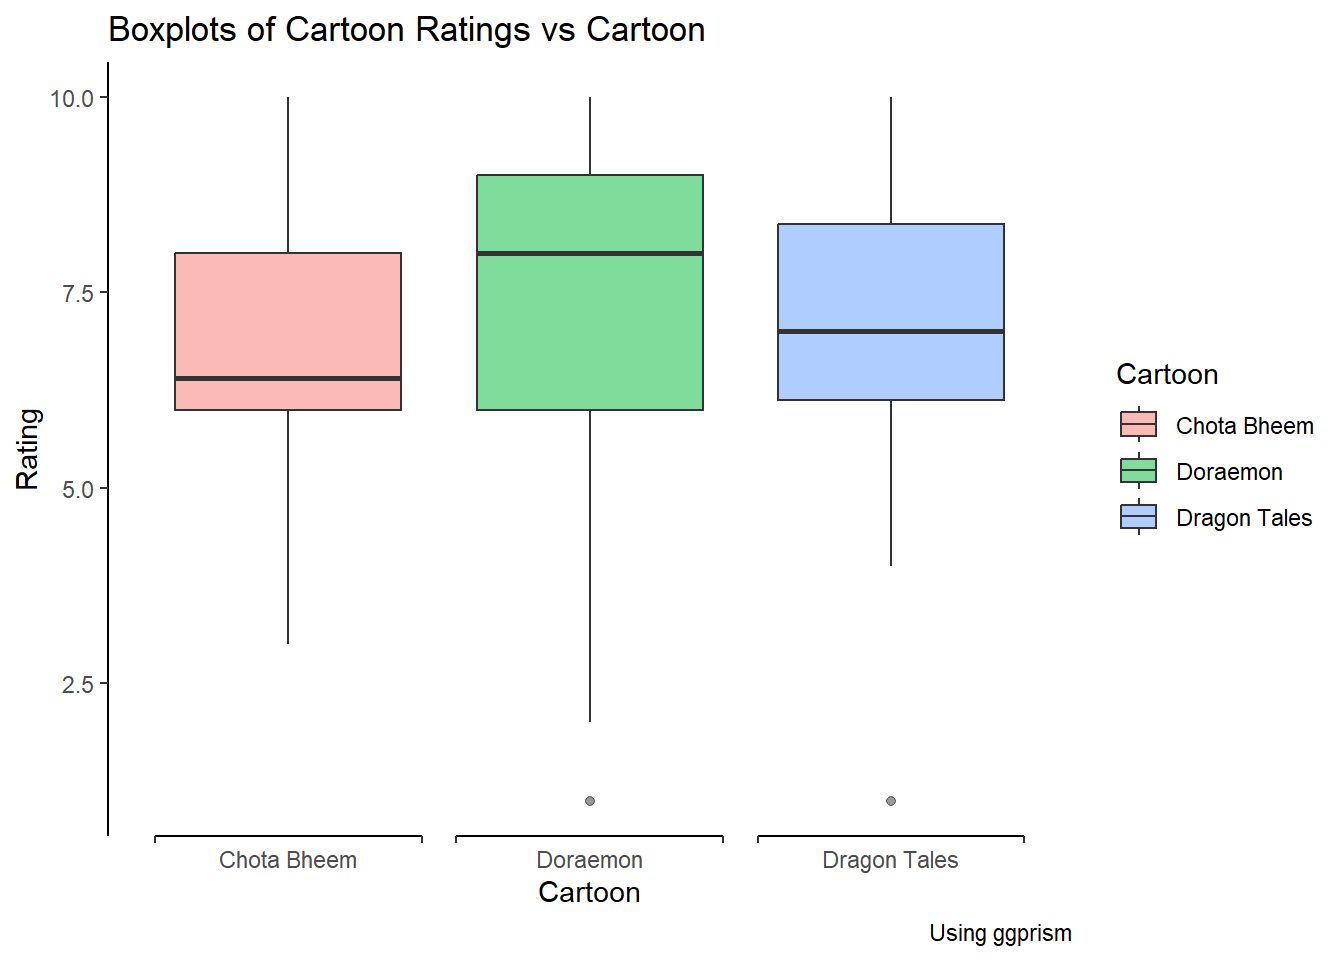
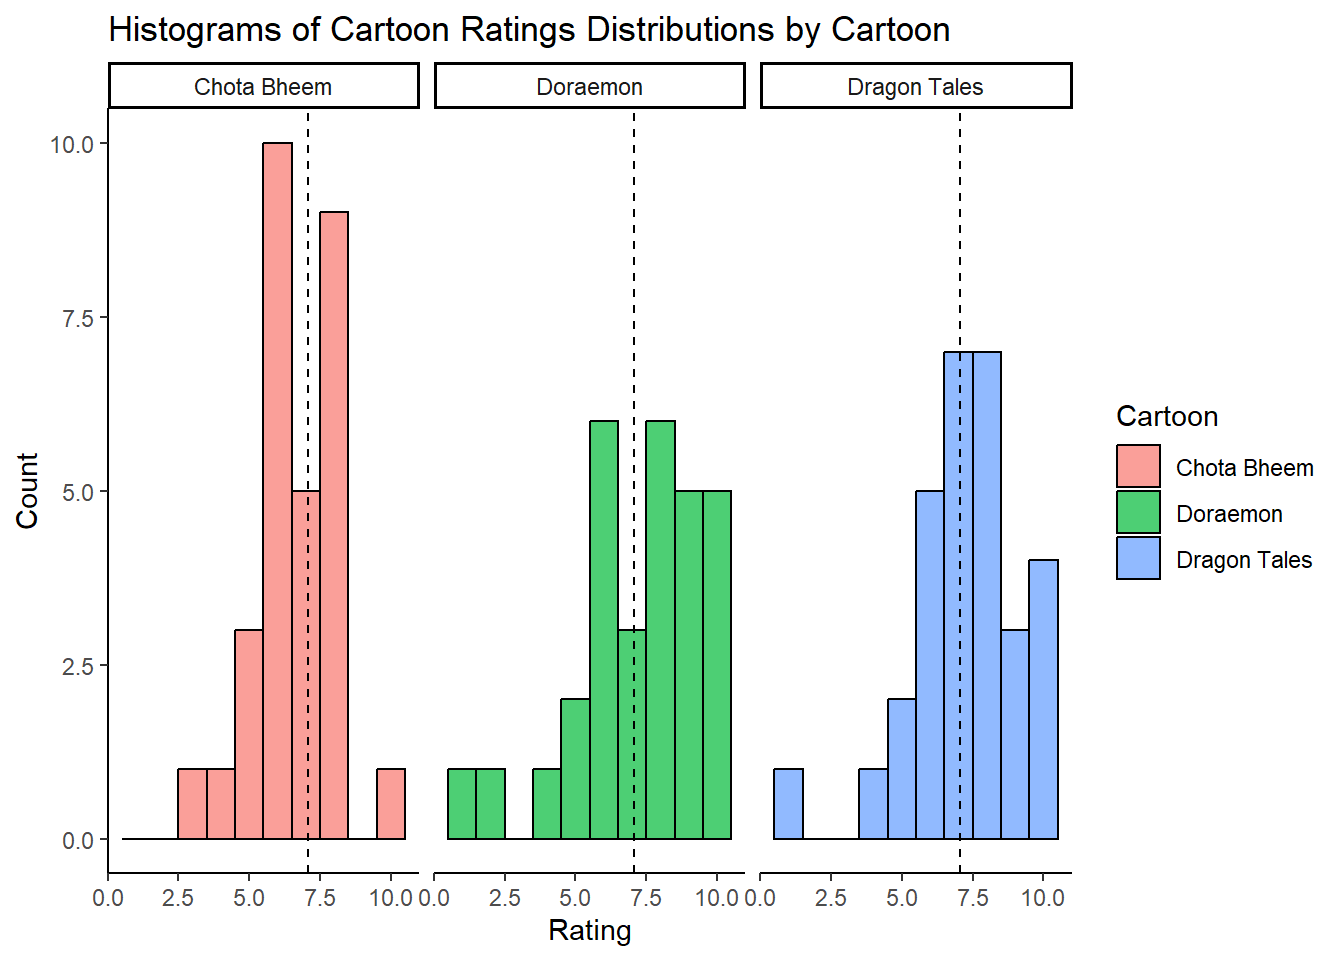
2nd commit

diff --git a/_site/posts/A3-Cartoons-Dataset/index.html b/_site/posts/A3-Cartoons-Dataset/index.html
@@ -178,6 +178,9 @@ pre > code.sourceCode > span > a:first-child::before { text-decoration: underlin
 
 
 
+<section id="introduction" class="level2">
+<h2 class="anchored" data-anchor-id="introduction">Introduction</h2>
+<p>This dataset shows ratings given by MAHE students to different cartoons. Each entry includes a Participant ID, Gender, Cartoon name, and Rating. The aim is to see if there are significant differences in how people rate each cartoon. By using ANOVA, we can find out if some cartoon is consistently rated higher or lower than the other.</p>
 <div class="cell">
 <div class="sourceCode cell-code" id="cb1"><pre class="sourceCode r code-with-copy"><code class="sourceCode r"><span id="cb1-1"><a href="#cb1-1" aria-hidden="true" tabindex="-1"></a><span class="fu">library</span>(tidyverse) <span class="co"># Tidy data processing</span></span></code><button title="Copy to Clipboard" class="code-copy-button"><i class="bi"></i></button></pre></div>
 <div class="cell-output cell-output-stderr">
@@ -275,7 +278,8 @@ The following object is masked from 'package:scales':
 </div>
 </div>
 <div class="cell">
-<div class="sourceCode cell-code" id="cb11"><pre class="sourceCode r code-with-copy"><code class="sourceCode r"><span id="cb11-1"><a href="#cb11-1" aria-hidden="true" tabindex="-1"></a>cartoon <span class="ot">&lt;-</span> <span class="fu">read_csv</span>(<span class="st">"../../Data/Cartoon.csv"</span>)</span></code><button title="Copy to Clipboard" class="code-copy-button"><i class="bi"></i></button></pre></div>
+<div class="sourceCode cell-code" id="cb11"><pre class="sourceCode r code-with-copy"><code class="sourceCode r"><span id="cb11-1"><a href="#cb11-1" aria-hidden="true" tabindex="-1"></a><span class="co"># Reading in the data</span></span>
+<span id="cb11-2"><a href="#cb11-2" aria-hidden="true" tabindex="-1"></a>cartoon <span class="ot">&lt;-</span> <span class="fu">read_csv</span>(<span class="st">"../../Data/Cartoon.csv"</span>)</span></code><button title="Copy to Clipboard" class="code-copy-button"><i class="bi"></i></button></pre></div>
 <div class="cell-output cell-output-stderr">
 <pre><code>Rows: 90 Columns: 4
 ── Column specification ────────────────────────────────────────────────────────
@@ -297,12 +301,14 @@ $ Rating           &lt;dbl&gt; 8.5, 6.0, 8.0, 7.0, 8.0, 10.0, 5.0, 7.8, 8.5, 5.0
 </div>
 </div>
 <div class="cell">
-<div class="sourceCode cell-code" id="cb15"><pre class="sourceCode r code-with-copy"><code class="sourceCode r"><span id="cb15-1"><a href="#cb15-1" aria-hidden="true" tabindex="-1"></a>cartoon_modified <span class="ot">&lt;-</span> cartoon <span class="sc">%&gt;%</span></span>
-<span id="cb15-2"><a href="#cb15-2" aria-hidden="true" tabindex="-1"></a>  dplyr<span class="sc">::</span><span class="fu">mutate</span>(</span>
-<span id="cb15-3"><a href="#cb15-3" aria-hidden="true" tabindex="-1"></a>  <span class="at">Gender =</span> <span class="fu">as_factor</span>(Gender),</span>
-<span id="cb15-4"><a href="#cb15-4" aria-hidden="true" tabindex="-1"></a>  <span class="at">Cartoon =</span> <span class="fu">as_factor</span>(Cartoon)</span>
-<span id="cb15-5"><a href="#cb15-5" aria-hidden="true" tabindex="-1"></a>  )</span>
-<span id="cb15-6"><a href="#cb15-6" aria-hidden="true" tabindex="-1"></a><span class="fu">glimpse</span>(cartoon_modified)</span></code><button title="Copy to Clipboard" class="code-copy-button"><i class="bi"></i></button></pre></div>
+<div class="sourceCode cell-code" id="cb15"><pre class="sourceCode r code-with-copy"><code class="sourceCode r"><span id="cb15-1"><a href="#cb15-1" aria-hidden="true" tabindex="-1"></a><span class="co"># Mutating by converting Gender and Cartoon into factors</span></span>
+<span id="cb15-2"><a href="#cb15-2" aria-hidden="true" tabindex="-1"></a></span>
+<span id="cb15-3"><a href="#cb15-3" aria-hidden="true" tabindex="-1"></a>cartoon_modified <span class="ot">&lt;-</span> cartoon <span class="sc">%&gt;%</span></span>
+<span id="cb15-4"><a href="#cb15-4" aria-hidden="true" tabindex="-1"></a>  dplyr<span class="sc">::</span><span class="fu">mutate</span>(</span>
+<span id="cb15-5"><a href="#cb15-5" aria-hidden="true" tabindex="-1"></a>  <span class="at">Gender =</span> <span class="fu">as_factor</span>(Gender),</span>
+<span id="cb15-6"><a href="#cb15-6" aria-hidden="true" tabindex="-1"></a>  <span class="at">Cartoon =</span> <span class="fu">as_factor</span>(Cartoon)</span>
+<span id="cb15-7"><a href="#cb15-7" aria-hidden="true" tabindex="-1"></a>  )</span>
+<span id="cb15-8"><a href="#cb15-8" aria-hidden="true" tabindex="-1"></a><span class="fu">glimpse</span>(cartoon_modified)</span></code><button title="Copy to Clipboard" class="code-copy-button"><i class="bi"></i></button></pre></div>
 <div class="cell-output cell-output-stdout">
 <pre><code>Rows: 90
 Columns: 4
@@ -344,27 +350,18 @@ $ Rating           &lt;dbl&gt; 8.5, 6.0, 8.0, 7.0, 8.0, 10.0, 5.0, 7.8, 8.5, 5.0
 <div class="cell">
 <div class="sourceCode cell-code" id="cb19"><pre class="sourceCode r code-with-copy"><code class="sourceCode r"><span id="cb19-1"><a href="#cb19-1" aria-hidden="true" tabindex="-1"></a><span class="co"># Set graph theme</span></span>
 <span id="cb19-2"><a href="#cb19-2" aria-hidden="true" tabindex="-1"></a><span class="fu">theme_set</span>(<span class="at">new =</span> <span class="fu">theme_classic</span>())</span>
-<span id="cb19-3"><a href="#cb19-3" aria-hidden="true" tabindex="-1"></a><span class="do">##</span></span>
-<span id="cb19-4"><a href="#cb19-4" aria-hidden="true" tabindex="-1"></a><span class="fu">gf_boxplot</span>(</span>
-<span id="cb19-5"><a href="#cb19-5" aria-hidden="true" tabindex="-1"></a>  <span class="at">data =</span> cartoon_modified,</span>
-<span id="cb19-6"><a href="#cb19-6" aria-hidden="true" tabindex="-1"></a>  Rating <span class="sc">~</span> Cartoon,</span>
-<span id="cb19-7"><a href="#cb19-7" aria-hidden="true" tabindex="-1"></a>  <span class="at">fill =</span> <span class="sc">~</span> Cartoon,</span>
-<span id="cb19-8"><a href="#cb19-8" aria-hidden="true" tabindex="-1"></a>  <span class="at">alpha =</span> <span class="fl">0.5</span></span>
-<span id="cb19-9"><a href="#cb19-9" aria-hidden="true" tabindex="-1"></a>) <span class="sc">%&gt;%</span></span>
-<span id="cb19-10"><a href="#cb19-10" aria-hidden="true" tabindex="-1"></a>   <span class="fu">gf_vline</span>(<span class="at">xintercept =</span> <span class="fu">mean</span>(cartoon_modified<span class="sc">$</span>Rating)) <span class="sc">%&gt;%</span></span>
+<span id="cb19-3"><a href="#cb19-3" aria-hidden="true" tabindex="-1"></a></span>
+<span id="cb19-4"><a href="#cb19-4" aria-hidden="true" tabindex="-1"></a><span class="co"># Creating faceted histograms with black outline, and overall mean line</span></span>
+<span id="cb19-5"><a href="#cb19-5" aria-hidden="true" tabindex="-1"></a><span class="fu">gf_histogram</span>(<span class="sc">~</span>Rating,</span>
+<span id="cb19-6"><a href="#cb19-6" aria-hidden="true" tabindex="-1"></a>  <span class="at">data =</span> cartoon_modified, <span class="at">alpha =</span> <span class="fl">0.7</span>, <span class="at">bins =</span> <span class="dv">10</span>,</span>
+<span id="cb19-7"><a href="#cb19-7" aria-hidden="true" tabindex="-1"></a>  <span class="at">fill =</span> <span class="sc">~</span>Cartoon, <span class="at">color =</span> <span class="st">"black"</span>  <span class="co"># Black outline</span></span>
+<span id="cb19-8"><a href="#cb19-8" aria-hidden="true" tabindex="-1"></a>) <span class="sc">%&gt;%</span></span>
+<span id="cb19-9"><a href="#cb19-9" aria-hidden="true" tabindex="-1"></a>  <span class="fu">gf_facet_wrap</span>(<span class="sc">~</span>Cartoon) <span class="sc">%&gt;%</span>  <span class="co"># Facet by cartoon</span></span>
+<span id="cb19-10"><a href="#cb19-10" aria-hidden="true" tabindex="-1"></a>  <span class="fu">gf_vline</span>(<span class="at">xintercept =</span> <span class="fu">mean</span>(<span class="sc">~</span>Rating, <span class="at">data =</span> cartoon_modified), <span class="at">linetype =</span> <span class="st">"dashed"</span>) <span class="sc">%&gt;%</span></span>
 <span id="cb19-11"><a href="#cb19-11" aria-hidden="true" tabindex="-1"></a>  <span class="fu">gf_labs</span>(</span>
-<span id="cb19-12"><a href="#cb19-12" aria-hidden="true" tabindex="-1"></a>    <span class="at">title =</span> <span class="st">"Boxplots of Cartoon Ratings vs Cartoon"</span>,</span>
-<span id="cb19-13"><a href="#cb19-13" aria-hidden="true" tabindex="-1"></a>    <span class="at">x =</span> <span class="st">"Cartoon"</span>, <span class="at">y =</span> <span class="st">"Rating"</span>,</span>
-<span id="cb19-14"><a href="#cb19-14" aria-hidden="true" tabindex="-1"></a>    <span class="at">caption =</span> <span class="st">"Using ggprism"</span></span>
-<span id="cb19-15"><a href="#cb19-15" aria-hidden="true" tabindex="-1"></a>  ) <span class="sc">%&gt;%</span></span>
-<span id="cb19-16"><a href="#cb19-16" aria-hidden="true" tabindex="-1"></a>  <span class="fu">gf_refine</span>(</span>
-<span id="cb19-17"><a href="#cb19-17" aria-hidden="true" tabindex="-1"></a>    <span class="fu">scale_x_discrete</span>(<span class="at">guide =</span> <span class="st">"prism_bracket"</span>),</span>
-<span id="cb19-18"><a href="#cb19-18" aria-hidden="true" tabindex="-1"></a>    <span class="fu">guides</span>(<span class="at">fill =</span> <span class="fu">guide_legend</span>(<span class="at">title =</span> <span class="st">"Cartoon"</span>))</span>
-<span id="cb19-19"><a href="#cb19-19" aria-hidden="true" tabindex="-1"></a>  )</span></code><button title="Copy to Clipboard" class="code-copy-button"><i class="bi"></i></button></pre></div>
-<div class="cell-output cell-output-stderr">
-<pre><code>Warning: The S3 guide system was deprecated in ggplot2 3.5.0.
-ℹ It has been replaced by a ggproto system that can be extended.</code></pre>
-</div>
+<span id="cb19-12"><a href="#cb19-12" aria-hidden="true" tabindex="-1"></a>    <span class="at">title =</span> <span class="st">"Histograms of Cartoon Ratings Distributions by Cartoon"</span>,</span>
+<span id="cb19-13"><a href="#cb19-13" aria-hidden="true" tabindex="-1"></a>    <span class="at">x =</span> <span class="st">"Rating"</span>, <span class="at">y =</span> <span class="st">"Count"</span></span>
+<span id="cb19-14"><a href="#cb19-14" aria-hidden="true" tabindex="-1"></a>  ) </span></code><button title="Copy to Clipboard" class="code-copy-button"><i class="bi"></i></button></pre></div>
 <div class="cell-output-display">
 <div>
 <figure class="figure">
@@ -373,9 +370,55 @@ $ Rating           &lt;dbl&gt; 8.5, 6.0, 8.0, 7.0, 8.0, 10.0, 5.0, 7.8, 8.5, 5.0
 </div>
 </div>
 </div>
-<p>https://av-quarto.netlify.app/content/courses/analytics/inference/modules/130-threemeansormore/</p>
+<div class="callout callout-style-default callout-note callout-titled">
+<div class="callout-header d-flex align-content-center">
+<div class="callout-icon-container">
+<i class="callout-icon"></i>
+</div>
+<div class="callout-title-container flex-fill">
+Note
+</div>
+</div>
+<div class="callout-body-container callout-body">
+<p>I tried facetting by cartoon, this way each cartoon’s rating distribution can be observed independently, making it easier to spot whether the cartoon has ratings clustered around high or low values. It also easy to compare how each cartoon’s ratings match up with the overall mean.</p>
+</div>
+</div>
+<div class="cell">
+<div class="sourceCode cell-code" id="cb20"><pre class="sourceCode r code-with-copy"><code class="sourceCode r"><span id="cb20-1"><a href="#cb20-1" aria-hidden="true" tabindex="-1"></a><span class="co"># Set graph theme</span></span>
+<span id="cb20-2"><a href="#cb20-2" aria-hidden="true" tabindex="-1"></a><span class="fu">theme_set</span>(<span class="at">new =</span> <span class="fu">theme_classic</span>())</span>
+<span id="cb20-3"><a href="#cb20-3" aria-hidden="true" tabindex="-1"></a><span class="do">##</span></span>
+<span id="cb20-4"><a href="#cb20-4" aria-hidden="true" tabindex="-1"></a><span class="fu">gf_boxplot</span>(</span>
+<span id="cb20-5"><a href="#cb20-5" aria-hidden="true" tabindex="-1"></a>  <span class="at">data =</span> cartoon_modified,</span>
+<span id="cb20-6"><a href="#cb20-6" aria-hidden="true" tabindex="-1"></a>  Rating <span class="sc">~</span> Cartoon,</span>
+<span id="cb20-7"><a href="#cb20-7" aria-hidden="true" tabindex="-1"></a>  <span class="at">fill =</span> <span class="sc">~</span> Cartoon,</span>
+<span id="cb20-8"><a href="#cb20-8" aria-hidden="true" tabindex="-1"></a>  <span class="at">alpha =</span> <span class="fl">0.5</span></span>
+<span id="cb20-9"><a href="#cb20-9" aria-hidden="true" tabindex="-1"></a>) <span class="sc">%&gt;%</span></span>
+<span id="cb20-10"><a href="#cb20-10" aria-hidden="true" tabindex="-1"></a>   <span class="fu">gf_vline</span>(<span class="at">xintercept =</span> <span class="fu">mean</span>(cartoon_modified<span class="sc">$</span>Rating)) <span class="sc">%&gt;%</span></span>
+<span id="cb20-11"><a href="#cb20-11" aria-hidden="true" tabindex="-1"></a>  <span class="fu">gf_labs</span>(</span>
+<span id="cb20-12"><a href="#cb20-12" aria-hidden="true" tabindex="-1"></a>    <span class="at">title =</span> <span class="st">"Boxplots of Cartoon Ratings vs Cartoon"</span>,</span>
+<span id="cb20-13"><a href="#cb20-13" aria-hidden="true" tabindex="-1"></a>    <span class="at">x =</span> <span class="st">"Cartoon"</span>, <span class="at">y =</span> <span class="st">"Rating"</span>,</span>
+<span id="cb20-14"><a href="#cb20-14" aria-hidden="true" tabindex="-1"></a>    <span class="at">caption =</span> <span class="st">"Using ggprism"</span></span>
+<span id="cb20-15"><a href="#cb20-15" aria-hidden="true" tabindex="-1"></a>  ) <span class="sc">%&gt;%</span></span>
+<span id="cb20-16"><a href="#cb20-16" aria-hidden="true" tabindex="-1"></a>  <span class="fu">gf_refine</span>(</span>
+<span id="cb20-17"><a href="#cb20-17" aria-hidden="true" tabindex="-1"></a>    <span class="fu">scale_x_discrete</span>(<span class="at">guide =</span> <span class="st">"prism_bracket"</span>),</span>
+<span id="cb20-18"><a href="#cb20-18" aria-hidden="true" tabindex="-1"></a>    <span class="fu">guides</span>(<span class="at">fill =</span> <span class="fu">guide_legend</span>(<span class="at">title =</span> <span class="st">"Cartoon"</span>))</span>
+<span id="cb20-19"><a href="#cb20-19" aria-hidden="true" tabindex="-1"></a>  )</span></code><button title="Copy to Clipboard" class="code-copy-button"><i class="bi"></i></button></pre></div>
+<div class="cell-output cell-output-stderr">
+<pre><code>Warning: The S3 guide system was deprecated in ggplot2 3.5.0.
+ℹ It has been replaced by a ggproto system that can be extended.</code></pre>
+</div>
+<div class="cell-output-display">
+<div>
+<figure class="figure">
+<p><img src="index_files/figure-html/unnamed-chunk-6-1.png" class="img-fluid figure-img" width="672"></p>
+</figure>
+</div>
+</div>
+</div>
+<p><a href="https://av-quarto.netlify.app/content/courses/analytics/inference/modules/130-threemeansormore/" class="uri">https://av-quarto.netlify.app/content/courses/analytics/inference/modules/130-threemeansormore/</a></p>
 
 
+</section>
 
 </main> <!-- /main -->
 <script id="quarto-html-after-body" type="application/javascript">

diff --git a/_site/index.html b/_site/index.html
@@ -280,7 +280,7 @@ Gayatri Jadhav
 </a>
 </div>
 </div>
-<div class="quarto-post image-right" data-index="3" data-listing-file-modified-sort="1730257851776" data-listing-reading-time-sort="1" data-listing-word-count-sort="1">
+<div class="quarto-post image-right" data-index="3" data-listing-file-modified-sort="1730307044726" data-listing-reading-time-sort="1" data-listing-word-count-sort="1">
 <div class="thumbnail">
 <p><a href="./posts/A3-Art-And-Design-Dataset/index.html" class="no-external"></a></p><a href="./posts/A3-Art-And-Design-Dataset/index.html" class="no-external">
 <div class="listing-item-img-placeholder card-img-top" >&nbsp;</div>
@@ -305,7 +305,7 @@ Gayatri Jadhav
 </a>
 </div>
 </div>
-<div class="quarto-post image-right" data-index="4" data-listing-file-modified-sort="1730306857532" data-listing-reading-time-sort="1" data-listing-word-count-sort="200">
+<div class="quarto-post image-right" data-index="4" data-listing-file-modified-sort="1730376649092" data-listing-reading-time-sort="2" data-listing-word-count-sort="399">
 <div class="thumbnail">
 <p><a href="./posts/A3-Cartoons-Dataset/index.html" class="no-external"></a></p><a href="./posts/A3-Cartoons-Dataset/index.html" class="no-external">
 <p class="card-img-top"><img src="posts\A3-Cartoons-Dataset\index_files\figure-html\unnamed-chunk-4-1.png"  class="thumbnail-image card-img"/></p>
@@ -319,7 +319,7 @@ Gayatri Jadhav
 <a href="./posts/A3-Cartoons-Dataset/index.html" class="no-external"></a>
 </div>
 <div class="listing-description">
-<a href="./posts/A3-Cartoons-Dataset/index.html" class="no-external">https://av-quarto.netlify.app/content/courses/analytics/inference/modules/130-threemeansormore/</a>
+<a href="./posts/A3-Cartoons-Dataset/index.html" class="no-external">This dataset shows ratings given by MAHE students to different cartoons. Each entry includes a Participant ID, Gender, Cartoon name, and Rating. The aim is to see if there…</a>
 </div>
 </div>
 <div class="metadata">
